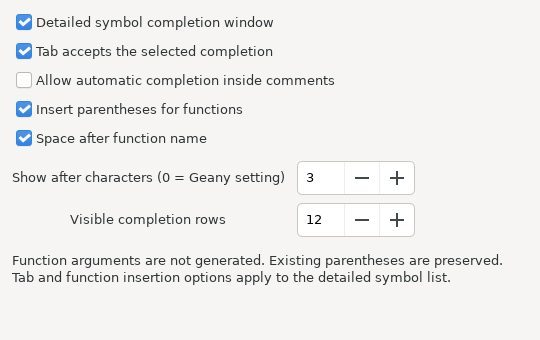
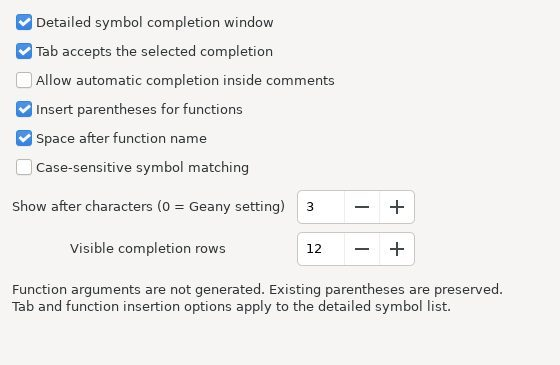
Add Source Insight style case-insensitive symbol completion

Changed region(s): [[0.0, 0.1176, 0.9185, 0.8529], [0.1185, 0.6176, 0.4148, 0.7059], [0.0296, 0.0294, 0.5037, 0.0882]]

diff --git a/insight/tests/completion_native_gui_test.c b/insight/tests/completion_native_gui_test.c
@@ -10,7 +10,7 @@
 #include <gdk/gdkkeysyms.h>
 #include <string.h>
 #define SEND(s,m,w,l) scintilla_send_message(s,m,w,l)
-static const gchar *content="int apricot_count;\ndouble apricot_ratio;\nint apricot_compute(int value) { return value; }\nvoid demo() {\n    \n}\n";
+static const gchar *content="int apricot_count;\ndouble apricot_ratio;\nint apricot_compute(int value) { return value; }\nint BerryCount;\nint berryCount;\nint BERRY_MODE;\nstruct Basket { int BerryField; int berryField; };\nBasket basket;\nvoid unrelated() { int berryHidden = 0; }\nvoid demo() {\n    \n}\n";
 static gchar *source,*profile,*original;static GeanyDocument *doc;static gint start;static guint phase;static gboolean restarted;
 static GtkWidget *named(GtkWidget *w,const gchar *name) { if(!g_strcmp0(gtk_widget_get_name(w),name)) return w;if(GTK_IS_MENU_ITEM(w)) { GtkWidget *menu=gtk_menu_item_get_submenu(GTK_MENU_ITEM(w));if(menu) { GtkWidget *v=named(menu,name);if(v) return v; } }if(GTK_IS_CONTAINER(w)) { GList *children=gtk_container_get_children(GTK_CONTAINER(w));GtkWidget *result=NULL;for(GList *p=children;p && !result;p=p->next) result=named(p->data,name);g_list_free(children);return result; }return NULL; }
 static GtkWidget *popup(void) { GList *windows=gtk_window_list_toplevels();GtkWidget *result=NULL;for(GList *p=windows;p;p=p->next) if(!g_strcmp0(gtk_widget_get_name(p->data),"insight-completion-popup") && gtk_widget_get_visible(p->data)) result=p->data;g_list_free(windows);return result; }
@@ -24,8 +24,8 @@ static GtkWidget *settings_dialog(void) { GList *windows=gtk_window_list_topleve
 static void setting_toggle(GtkWidget *d,const gchar *id,gboolean active) { gchar *name=g_strconcat("insight-completion-setting-",id,NULL);GtkWidget *w=named(d,name);g_assert_nonnull(w);gtk_toggle_button_set_active(GTK_TOGGLE_BUTTON(w),active);g_free(name); }
 static gboolean settings_action(gpointer data) {
  GtkWidget *d=settings_dialog();if(!d) return G_SOURCE_CONTINUE;guint mode=GPOINTER_TO_UINT(data);
- if(mode==3) { g_assert_cmpint(gtk_spin_button_get_value_as_int(GTK_SPIN_BUTTON(named(d,"insight-completion-setting-threshold"))),==,4);g_assert_cmpint(gtk_spin_button_get_value_as_int(GTK_SPIN_BUTTON(named(d,"insight-completion-setting-rows"))),==,5);g_assert_false(gtk_toggle_button_get_active(GTK_TOGGLE_BUTTON(named(d,"insight-completion-setting-accept-tab"))));g_assert_true(gtk_toggle_button_get_active(GTK_TOGGLE_BUTTON(named(d,"insight-completion-setting-parentheses"))));gtk_dialog_response(GTK_DIALOG(d),GTK_RESPONSE_CANCEL);return G_SOURCE_REMOVE; }
- setting_toggle(d,"accept-tab",FALSE);setting_toggle(d,"comments",mode!=2);setting_toggle(d,"parentheses",TRUE);setting_toggle(d,"space",TRUE);gtk_spin_button_set_value(GTK_SPIN_BUTTON(named(d,"insight-completion-setting-threshold")),mode==0 ? 12 : 4);gtk_spin_button_set_value(GTK_SPIN_BUTTON(named(d,"insight-completion-setting-rows")),5);gtk_dialog_response(GTK_DIALOG(d),mode==0 ? GTK_RESPONSE_CANCEL : GTK_RESPONSE_OK);return G_SOURCE_REMOVE;
+ if(mode==3) { g_assert_false(gtk_toggle_button_get_active(GTK_TOGGLE_BUTTON(named(d,"insight-completion-setting-case-sensitive"))));g_assert_cmpint(gtk_spin_button_get_value_as_int(GTK_SPIN_BUTTON(named(d,"insight-completion-setting-threshold"))),==,4);g_assert_cmpint(gtk_spin_button_get_value_as_int(GTK_SPIN_BUTTON(named(d,"insight-completion-setting-rows"))),==,5);g_assert_false(gtk_toggle_button_get_active(GTK_TOGGLE_BUTTON(named(d,"insight-completion-setting-accept-tab"))));g_assert_true(gtk_toggle_button_get_active(GTK_TOGGLE_BUTTON(named(d,"insight-completion-setting-parentheses"))));gtk_dialog_response(GTK_DIALOG(d),GTK_RESPONSE_CANCEL);return G_SOURCE_REMOVE; }
+ setting_toggle(d,"accept-tab",FALSE);setting_toggle(d,"comments",mode==0 || mode==1);setting_toggle(d,"case-sensitive",mode!=4);setting_toggle(d,"parentheses",TRUE);setting_toggle(d,"space",TRUE);gtk_spin_button_set_value(GTK_SPIN_BUTTON(named(d,"insight-completion-setting-threshold")),mode==0 ? 12 : 4);gtk_spin_button_set_value(GTK_SPIN_BUTTON(named(d,"insight-completion-setting-rows")),5);gtk_dialog_response(GTK_DIALOG(d),mode==0 ? GTK_RESPONSE_CANCEL : GTK_RESPONSE_OK);return G_SOURCE_REMOVE;
 }
 static void options(guint mode) { GtkWidget *window=gtk_widget_get_toplevel(GTK_WIDGET(doc->editor->sci)),*item=named(window,"insight-completion-options");g_assert_nonnull(item);g_timeout_add(30,settings_action,GUINT_TO_POINTER(mode));gtk_menu_item_activate(GTK_MENU_ITEM(item)); }
 static void reset_prefix(const gchar *text) { SEND(doc->editor->sci,SCI_SETTEXT,0,(sptr_t)content);sci_set_current_position(doc->editor->sci,start,FALSE);gtk_widget_grab_focus(GTK_WIDGET(doc->editor->sci));typed(text); }
@@ -54,7 +54,17 @@ static gboolean step(gpointer data) {
  if(phase==8) { g_assert_cmpuint(count(),==,1);key(GDK_KEY_Return);inserted_is("apricot_compute ()");g_assert_cmpint(sci_get_current_position(doc->editor->sci),==,start+(gint)strlen("apricot_compute ("));keybindings_send_command(GEANY_KEY_GROUP_EDITOR,GEANY_KEYS_EDITOR_UNDO);prefix_is("apricot_com");reset_prefix("");SEND(doc->editor->sci,SCI_REPLACESEL,0,(sptr_t)"apricot_com (17)");sci_set_current_position(doc->editor->sci,start+strlen("apricot_com"),FALSE);keybindings_send_command(GEANY_KEY_GROUP_EDITOR,GEANY_KEYS_EDITOR_AUTOCOMPLETE);phase++;return G_SOURCE_CONTINUE; }
  if(phase==9) { g_assert_cmpuint(count(),==,1);key(GDK_KEY_Return);inserted_is("apricot_compute (17)");reset_prefix("// apri");phase++;return G_SOURCE_CONTINUE; }
  if(phase==10) { g_assert_cmpuint(count(),==,3);key(GDK_KEY_Escape);options(2);reset_prefix("// apricot_c");phase++;return G_SOURCE_CONTINUE; }
- if(phase==11) { g_assert_null(popup());finish();return G_SOURCE_REMOVE;
+ if(phase==11) { g_assert_null(popup());options(4);reset_prefix("bErR");phase++;return G_SOURCE_CONTINUE;
+ }
+ if(phase==12) { GtkTreeModel *model=gtk_tree_view_get_model(GTK_TREE_VIEW(list()));GtkTreeIter iter;gboolean upper=FALSE,lower=FALSE,constant=FALSE;g_assert_true(gtk_tree_model_get_iter_first(model,&iter));do { gchar *name;gtk_tree_model_get(model,&iter,0,&name,-1);if(!strcmp(name,"BerryCount")) upper=TRUE;if(!strcmp(name,"berryCount")) lower=TRUE;if(!strcmp(name,"BERRY_MODE")) constant=TRUE;g_assert_cmpstr(name,!=,"berryHidden");g_free(name); }while(gtk_tree_model_iter_next(model,&iter));g_assert_true(upper);g_assert_true(lower);g_assert_true(constant);key(GDK_KEY_Escape);reset_prefix("berry");phase++;return G_SOURCE_CONTINUE;
+ }
+ if(phase==13) { gchar *name=selected();g_assert_true(g_str_has_prefix(name,"berry"));key(GDK_KEY_Return);prefix_is(name);g_free(name);keybindings_send_command(GEANY_KEY_GROUP_EDITOR,GEANY_KEYS_EDITOR_UNDO);prefix_is("berry");options(5);reset_prefix("bErR");phase++;return G_SOURCE_CONTINUE;
+ }
+ if(phase==14) { g_assert_null(popup());options(4);reset_prefix("basket.bEr");phase++;return G_SOURCE_CONTINUE;
+ }
+ if(phase==15) { g_assert_cmpuint(count(),==,2);gchar *name=selected(),*expected=g_strconcat("basket.",name,NULL);key(GDK_KEY_Return);prefix_is(expected);g_free(name);g_free(expected);keybindings_send_command(GEANY_KEY_GROUP_EDITOR,GEANY_KEYS_EDITOR_UNDO);prefix_is("basket.bEr");reset_prefix("bErR");phase++;return G_SOURCE_CONTINUE;
+ }
+ if(phase==16) { g_assert_nonnull(popup());GtkWidget *window=gtk_widget_get_toplevel(GTK_WIDGET(doc->editor->sci)),*option=named(window,"insight-detailed-completion-option");gtk_check_menu_item_set_active(GTK_CHECK_MENU_ITEM(option),FALSE);keybindings_send_command(GEANY_KEY_GROUP_EDITOR,GEANY_KEYS_EDITOR_AUTOCOMPLETE);g_assert_true(SEND(doc->editor->sci,SCI_AUTOCACTIVE,0,0));g_assert_true(SEND(doc->editor->sci,SCI_AUTOCGETIGNORECASE,0,0));SEND(doc->editor->sci,SCI_AUTOCCANCEL,0,0);gtk_check_menu_item_set_active(GTK_CHECK_MENU_ITEM(option),TRUE);finish();return G_SOURCE_REMOVE;
  }return G_SOURCE_CONTINUE;
 }
 static gboolean timeout(gpointer data) { (void)data;g_error("Completion GUI timeout phase %u",phase);return G_SOURCE_REMOVE; }

diff --git a/src/insight-completion.c b/src/insight-completion.c
@@ -15,13 +15,14 @@
 #define SEND(s,m,w,l) scintilla_send_message(s,m,w,l)
 #define KEY "insight-detailed-completion"
 enum { NAME,MARKUP,ICON,KIND,SCOPE,ORIGIN,IDENTITY,CALLABLE,COLUMNS };
-typedef struct { ScintillaObject *sci;GtkWidget *window,*view,*footer;GtkListStore *store;guint document,idle,focus_idle;gint start,end;gchar *prefix;gboolean active,accepting; } Completion;
+typedef struct { ScintillaObject *sci;GtkWidget *window,*view,*footer;GtkListStore *store;guint document,idle,focus_idle;gint start,end;gchar *prefix;gboolean active,accepting,limited; } Completion;
 static gboolean loaded;
 static InsightCompletionSettings settings;
 static GtkWidget *detail_item;
 static gboolean refresh(gpointer);
 static gchar *config_path(void) { return g_build_filename(app->configdir,"insight-completion.conf",NULL); }
 static void load(void) { if(loaded) return;loaded=TRUE;insight_completion_settings_default(&settings);GKeyFile *k=g_key_file_new();gchar *path=config_path();if(g_key_file_load_from_file(k,path,0,NULL)) { GError *error=NULL;if(!insight_completion_settings_read(&settings,k,&error)) g_warning("Invalid completion settings: %s",error->message);g_clear_error(&error); }g_key_file_unref(k);g_free(path); }
+gboolean insight_completion_case_sensitive(void) { load();return settings.case_sensitive; }
 gint insight_completion_min_chars(void) { load();return settings.min_chars ? settings.min_chars : editor_prefs.symbolcompletion_min_chars; }
 gboolean insight_completion_inside_comments(void) { load();return settings.inside_comments; }
 static Completion *state(GeanyEditor *editor) { return editor ? g_object_get_data(G_OBJECT(editor->sci),KEY) : NULL; }
@@ -42,7 +43,8 @@ static const gchar *kind(TMTagType type) {
  return "variable";
 }
 static gchar *selected(Completion *c,gint column) { GtkTreeIter iter;gchar *value=NULL;if(gtk_tree_selection_get_selected(gtk_tree_view_get_selection(GTK_TREE_VIEW(c->view)),NULL,&iter)) gtk_tree_model_get(GTK_TREE_MODEL(c->store),&iter,column,&value,-1);return value; }
-static void selection(GtkTreeSelection *unused,gpointer data) { (void)unused;Completion *c=data;gchar *origin=selected(c,ORIGIN);gtk_label_set_text(GTK_LABEL(c->footer),origin ? origin : "");g_free(origin); }
+static void selection(GtkTreeSelection *unused,gpointer data) { (void)unused;Completion *c=data;gchar *origin=selected(c,ORIGIN);gchar *text=g_strdup_printf("%s%s",origin ? origin : "",c->limited ? " · Case-insensitive search limit reached" : "");gtk_label_set_text(GTK_LABEL(c->footer),text);g_free(text);g_free(origin); }
+void insight_completion_search_limited(GeanyEditor *editor,gboolean limited) { Completion *c=state(editor);if(c) { c->limited=limited;selection(NULL,c); } }
 static void position(Completion *c) {
  gint x=SEND(c->sci,SCI_POINTXFROMPOSITION,0,c->end),y=SEND(c->sci,SCI_POINTYFROMPOSITION,0,c->end),height=SEND(c->sci,SCI_TEXTHEIGHT,SEND(c->sci,SCI_LINEFROMPOSITION,c->end,0),0),ox,oy;
  GdkWindow *window=gtk_widget_get_window(GTK_WIDGET(c->sci));if(!window) return;gdk_window_get_origin(window,&ox,&oy);
@@ -95,15 +97,15 @@ static Completion *create(GeanyEditor *editor) {
 gboolean insight_completion_show(GeanyEditor *editor,const GPtrArray *tags,gsize rootlen) {
  load();if(!settings.detailed) return FALSE;Completion *c=create(editor);gchar *previous=c->active ? selected(c,IDENTITY) : NULL;
  c->end=sci_get_current_position(c->sci);c->start=c->end-(gint)rootlen;g_free(c->prefix);c->prefix=sci_get_contents_range(c->sci,c->start,c->end);gtk_list_store_clear(c->store);
- GdkRGBA foreground;gtk_style_context_get_color(gtk_widget_get_style_context(c->view),GTK_STATE_FLAG_NORMAL,&foreground);gboolean dark=(foreground.red+foreground.green+foreground.blue)>1.8;const gchar *blue=dark ? "#93c5fd" : "#1d4ed8",*green=dark ? "#86efac" : "#166534",*muted=dark ? "#d1d5db" : "#475569";GtkTreePath *chosen=NULL;guint count=0;
+ GdkRGBA foreground;gtk_style_context_get_color(gtk_widget_get_style_context(c->view),GTK_STATE_FLAG_NORMAL,&foreground);gboolean dark=(foreground.red+foreground.green+foreground.blue)>1.8;const gchar *blue=dark ? "#93c5fd" : "#1d4ed8",*green=dark ? "#86efac" : "#166534",*muted=dark ? "#d1d5db" : "#475569";GtkTreePath *chosen=NULL,*exact=NULL;gboolean chosen_exact=FALSE;guint count=0;
  for(guint i=0;i<tags->len && count<editor_prefs.autocompletion_max_entries;i++) {
   TMTag *tag=g_ptr_array_index((GPtrArray *)tags,i);if(!tag->name || !g_utf8_validate(tag->name,-1,NULL) || strpbrk(tag->name,"\n\r\t")) continue;
   const gchar *args=tag->arglist ? tag->arglist : "",*scope=tag->scope ? tag->scope : "",*vartype=tag->var_type ? tag->var_type : "";gchar *identity=g_strdup_printf("%s|%s|%s|%s|%lu",tag->name,args,scope,tag->file ? tag->file->file_name : "",tag->line);
   gchar *markup=g_markup_printf_escaped("<span foreground='%s'>%s</span> <span foreground='%s'><b>%s</b></span><span foreground='%s'>%s</span> <span foreground='%s'>%s</span>",muted,vartype,blue,tag->name,green,args,muted,scope);
   gchar *description=g_strdup_printf("%s %s %s",vartype,args,scope),*origin=g_strdup_printf("%s · %s%s%s:%lu",kind(tag->type),*scope ? scope : "global",tag->file ? " · " : "",tag->file ? tag->file->file_name : "",tag->line);guint icon_id=0;gint group=tm_parser_get_sidebar_group(tag->lang,tag->type);const gchar *icon_name="text-x-generic";if(group>=0 && tm_parser_get_sidebar_info(tag->lang,group,&icon_id)) icon_name=symbols_get_icon_name(icon_id);
-  GtkTreeIter iter;gtk_list_store_append(c->store,&iter);gtk_list_store_set(c->store,&iter,NAME,tag->name,MARKUP,markup,ICON,icon_name,KIND,kind(tag->type),SCOPE,description,ORIGIN,origin,IDENTITY,identity,CALLABLE,(tag->type & (tm_tag_function_t|tm_tag_prototype_t|tm_tag_method_t))!=0,-1);if(previous && !strcmp(previous,identity)) chosen=gtk_tree_model_get_path(GTK_TREE_MODEL(c->store),&iter);count++;g_free(markup);g_free(description);g_free(origin);g_free(identity);
+  GtkTreeIter iter;gtk_list_store_append(c->store,&iter);gtk_list_store_set(c->store,&iter,NAME,tag->name,MARKUP,markup,ICON,icon_name,KIND,kind(tag->type),SCOPE,description,ORIGIN,origin,IDENTITY,identity,CALLABLE,(tag->type & (tm_tag_function_t|tm_tag_prototype_t|tm_tag_method_t))!=0,-1);if(!exact && g_str_has_prefix(tag->name,c->prefix)) exact=gtk_tree_model_get_path(GTK_TREE_MODEL(c->store),&iter);if(previous && !strcmp(previous,identity)) { chosen=gtk_tree_model_get_path(GTK_TREE_MODEL(c->store),&iter);chosen_exact=g_str_has_prefix(tag->name,c->prefix); }count++;g_free(markup);g_free(description);g_free(origin);g_free(identity);
  }
- g_free(previous);if(!count) { hide(c);return TRUE; }c->active=TRUE;if(!chosen) chosen=gtk_tree_path_new_first();gtk_tree_selection_select_path(gtk_tree_view_get_selection(GTK_TREE_VIEW(c->view)),chosen);gtk_tree_view_scroll_to_cell(GTK_TREE_VIEW(c->view),chosen,NULL,FALSE,0,0);gtk_tree_path_free(chosen);SEND(c->sci,SCI_AUTOCCANCEL,0,0);SEND(c->sci,SCI_CALLTIPCANCEL,0,0);
+ g_free(previous);if(!settings.case_sensitive && exact && !chosen_exact) { if(chosen) gtk_tree_path_free(chosen);chosen=gtk_tree_path_copy(exact); }if(exact) gtk_tree_path_free(exact);c->limited=FALSE;if(!count) { hide(c);return TRUE; }c->active=TRUE;if(!chosen) chosen=gtk_tree_path_new_first();gtk_tree_selection_select_path(gtk_tree_view_get_selection(GTK_TREE_VIEW(c->view)),chosen);gtk_tree_view_scroll_to_cell(GTK_TREE_VIEW(c->view),chosen,NULL,FALSE,0,0);gtk_tree_path_free(chosen);SEND(c->sci,SCI_AUTOCCANCEL,0,0);SEND(c->sci,SCI_CALLTIPCANCEL,0,0);
  gtk_widget_set_size_request(c->view,620,MIN(count,(guint)settings.max_rows)*26);gtk_widget_show_all(c->window);position(c);return TRUE;
 }
 gboolean insight_completion_key(GeanyEditor *editor,GdkEventKey *event) {

diff --git a/insight/desktop/completion_preferences.c b/insight/desktop/completion_preferences.c
@@ -1,15 +1,15 @@
 /* SPDX-License-Identifier: GPL-2.0-or-later */
 #include "completion_preferences.h"
-typedef struct { GtkWidget *flags[5],*threshold,*rows; } Page;
+typedef struct { GtkWidget *flags[6],*threshold,*rows; } Page;
 GtkWidget *insight_completion_preferences_new(const InsightCompletionSettings *settings) {
  Page *p=g_new0(Page,1);GtkWidget *box=gtk_box_new(GTK_ORIENTATION_VERTICAL,8);gtk_container_set_border_width(GTK_CONTAINER(box),12);
- const gchar *labels[]={"Detailed symbol completion window","Tab accepts the selected completion","Allow automatic completion inside comments","Insert parentheses for functions","Space after function name"},*ids[]={"detailed","accept-tab","comments","parentheses","space"};gboolean values[]={settings->detailed,settings->accept_tab,settings->inside_comments,settings->insert_parentheses,settings->space_after_name};
- for(guint n=0;n<5;n++) { p->flags[n]=gtk_check_button_new_with_label(labels[n]);gchar *name=g_strconcat("insight-completion-setting-",ids[n],NULL);gtk_widget_set_name(p->flags[n],name);g_free(name);gtk_toggle_button_set_active(GTK_TOGGLE_BUTTON(p->flags[n]),values[n]);gtk_box_pack_start(GTK_BOX(box),p->flags[n],FALSE,FALSE,0); }
+ const gchar *labels[]={"Detailed symbol completion window","Tab accepts the selected completion","Allow automatic completion inside comments","Insert parentheses for functions","Space after function name","Case-sensitive symbol matching"},*ids[]={"detailed","accept-tab","comments","parentheses","space","case-sensitive"};gboolean values[]={settings->detailed,settings->accept_tab,settings->inside_comments,settings->insert_parentheses,settings->space_after_name,settings->case_sensitive};
+ for(guint n=0;n<6;n++) { p->flags[n]=gtk_check_button_new_with_label(labels[n]);gchar *name=g_strconcat("insight-completion-setting-",ids[n],NULL);gtk_widget_set_name(p->flags[n],name);g_free(name);gtk_toggle_button_set_active(GTK_TOGGLE_BUTTON(p->flags[n]),values[n]);gtk_box_pack_start(GTK_BOX(box),p->flags[n],FALSE,FALSE,0); }
  GtkWidget *grid=gtk_grid_new();gtk_grid_set_row_spacing(GTK_GRID(grid),8);gtk_grid_set_column_spacing(GTK_GRID(grid),12);p->threshold=gtk_spin_button_new_with_range(0,12,1);p->rows=gtk_spin_button_new_with_range(3,20,1);gtk_widget_set_name(p->threshold,"insight-completion-setting-threshold");gtk_widget_set_name(p->rows,"insight-completion-setting-rows");gtk_spin_button_set_value(GTK_SPIN_BUTTON(p->threshold),settings->min_chars);gtk_spin_button_set_value(GTK_SPIN_BUTTON(p->rows),settings->max_rows);gtk_grid_attach(GTK_GRID(grid),gtk_label_new("Show after characters (0 = Geany setting)"),0,0,1,1);gtk_grid_attach(GTK_GRID(grid),p->threshold,1,0,1,1);gtk_grid_attach(GTK_GRID(grid),gtk_label_new("Visible completion rows"),0,1,1,1);gtk_grid_attach(GTK_GRID(grid),p->rows,1,1,1,1);gtk_box_pack_start(GTK_BOX(box),grid,FALSE,FALSE,4);
  GtkWidget *note=gtk_label_new("Function arguments are not generated. Existing parentheses are preserved.\nTab and function insertion options apply to the detailed symbol list.");gtk_label_set_line_wrap(GTK_LABEL(note),TRUE);gtk_label_set_xalign(GTK_LABEL(note),0);gtk_box_pack_start(GTK_BOX(box),note,FALSE,FALSE,3);g_object_set_data_full(G_OBJECT(box),"insight-completion-preferences",p,g_free);return box;
 }
 void insight_completion_preferences_get(GtkWidget *box,InsightCompletionSettings *settings) {
- Page *p=g_object_get_data(G_OBJECT(box),"insight-completion-preferences");gboolean *values[]={&settings->detailed,&settings->accept_tab,&settings->inside_comments,&settings->insert_parentheses,&settings->space_after_name};
- for(guint n=0;n<5;n++) *values[n]=gtk_toggle_button_get_active(GTK_TOGGLE_BUTTON(p->flags[n]));
+ Page *p=g_object_get_data(G_OBJECT(box),"insight-completion-preferences");gboolean *values[]={&settings->detailed,&settings->accept_tab,&settings->inside_comments,&settings->insert_parentheses,&settings->space_after_name,&settings->case_sensitive};
+ for(guint n=0;n<6;n++) *values[n]=gtk_toggle_button_get_active(GTK_TOGGLE_BUTTON(p->flags[n]));
  settings->min_chars=gtk_spin_button_get_value_as_int(GTK_SPIN_BUTTON(p->threshold));settings->max_rows=gtk_spin_button_get_value_as_int(GTK_SPIN_BUTTON(p->rows));
 }

diff --git a/src/tagmanager/tm_workspace.c b/src/tagmanager/tm_workspace.c
@@ -1,3 +1,4 @@
+#include "tm_completion.h"
 /*
 *
 *   Copyright (c) 2001-2002, Biswapesh Chattopadhyay
@@ -973,6 +974,31 @@ GPtrArray *tm_workspace_find_prefix(const char *prefix,
 }
 
 
+/* Existing exact-case results are retained before bounded casefold expansion. */
+typedef struct { SortInfo sort;const gchar *prefix; } CompletionSort;
+static gint sort_completion_case(gconstpointer a,gconstpointer b,gpointer data) {
+ CompletionSort *s=data;const TMTag *left=*(TMTag *const *)a,*right=*(TMTag *const *)b;gboolean l=g_str_has_prefix(left->name,s->prefix),r=g_str_has_prefix(right->name,s->prefix);if(l!=r) return l ? -1 : 1;return sort_found_tags(a,b,&s->sort);
+}
+static void copy_casefold(GPtrArray *dst,const GPtrArray *source,CopyInfo *info,TMCompletionPrefix *prefix,GHashTable *seen,guint max_num,guint *visited,gboolean (*predicate)(TMTag *,CopyInfo *)) {
+ for(guint i=0;source && i<source->len && dst->len<max_num && *visited<100000;i++) {
+  (*visited)++;TMTag *tag=g_ptr_array_index((GPtrArray *)source,i);if(!predicate(tag,info) || !tm_workspace_is_autocomplete_tag(tag,info->file,info->line,info->scope) || !tm_completion_prefix_matches(prefix,tag->name) || g_hash_table_contains(seen,tag->name)) continue;
+  g_ptr_array_add(dst,tag);g_hash_table_add(seen,tag->name);
+ }
+}
+GPtrArray *tm_workspace_find_prefix_mode(const gchar *prefix,TMSourceFile *file,guint line,const gchar *scope,guint max_num,gboolean sensitive,gboolean *limited) {
+ if(limited) *limited=FALSE;
+ GPtrArray *tags=tm_workspace_find_prefix(prefix,file,line,scope,max_num);if(sensitive || !prefix || !*prefix || tags->len>=max_num) return tags;
+ TMCompletionPrefix *matcher=tm_completion_prefix_new(prefix,FALSE);if(!matcher) return tags;
+ GPtrArray *headers=NULL;GHashTable *includes=get_includes(file,&headers),*seen=g_hash_table_new(g_str_hash,g_str_equal);CopyInfo info={file,headers,includes,line,scope};guint visited=0;
+ for(guint i=0;i<tags->len;i++) { TMTag *tag=g_ptr_array_index(tags,i);g_hash_table_add(seen,tag->name); }
+ if(file) { copy_casefold(tags,file->tags_array,&info,matcher,seen,max_num,&visited,is_local_tag);copy_casefold(tags,file->tags_array,&info,matcher,seen,max_num,&visited,is_non_local_tag); }
+ for(guint i=0;headers && i<headers->len && tags->len<max_num && visited<100000;i++) { TMSourceFile *header=g_ptr_array_index(headers,i);copy_casefold(tags,header->tags_array,&info,matcher,seen,max_num,&visited,is_non_local_tag); }
+ GHashTableIter iter;gpointer key;g_hash_table_iter_init(&iter,includes);while(tags->len<max_num && visited<100000 && g_hash_table_iter_next(&iter,&key,NULL)) { TMSourceFile *included=key;copy_casefold(tags,included->tags_array,&info,matcher,seen,max_num,&visited,is_non_local_tag); }
+ copy_casefold(tags,theWorkspace->tags_array,&info,matcher,seen,max_num,&visited,is_workspace_tag);copy_casefold(tags,theWorkspace->global_tags,&info,matcher,seen,max_num,&visited,is_any_tag);
+ CompletionSort sort={{file,headers,includes,TRUE},prefix};g_ptr_array_sort_with_data(tags,sort_completion_case,&sort);if(limited) *limited=visited>=100000 && tags->len<max_num;
+ g_hash_table_unref(seen);g_hash_table_unref(includes);tm_completion_prefix_free(matcher);return tags;
+}
+
 static gboolean replace_with_char(gchar *haystack, const gchar *needle, char replacement)
 {
 	gchar *pos = strstr(haystack, needle);
@@ -1433,3 +1459,4 @@ void tm_workspace_dump(void)
 	}
 }
 #endif /* TM_DEBUG */
+

diff --git a/insight/tests/completion_settings_test.c b/insight/tests/completion_settings_test.c
@@ -2,8 +2,8 @@
 #include "../desktop/completion_settings.h"
 static void suffix(InsightCompletionSettings *p,gboolean callable,const gchar *right,const gchar *expected) { gchar *text=insight_completion_settings_suffix(p,callable,right);g_assert_cmpstr(text,==,expected);g_free(text); }
 int main(void) {
- InsightCompletionSettings p,q;GError *error=NULL;GKeyFile *key=g_key_file_new();g_key_file_set_boolean(key,"completion","detailed",FALSE);g_assert_true(insight_completion_settings_read(&p,key,&error));g_assert_false(p.detailed);g_assert_true(p.accept_tab);g_assert_cmpint(p.min_chars,==,0);g_assert_cmpint(p.max_rows,==,9);
- p.min_chars=4;p.max_rows=20;p.accept_tab=FALSE;p.inside_comments=TRUE;p.insert_parentheses=TRUE;p.space_after_name=TRUE;g_key_file_set_string(key,"custom","keep","yes");g_assert_true(insight_completion_settings_write(&p,key,&error));g_assert_true(insight_completion_settings_read(&q,key,&error));g_assert_no_error(error);g_assert_cmpint(q.min_chars,==,4);g_assert_cmpint(q.max_rows,==,20);g_assert_false(q.accept_tab);g_assert_true(q.inside_comments);g_assert_true(q.insert_parentheses);g_assert_true(q.space_after_name);
+ InsightCompletionSettings p,q;GError *error=NULL;GKeyFile *key=g_key_file_new();g_key_file_set_boolean(key,"completion","detailed",FALSE);g_assert_true(insight_completion_settings_read(&p,key,&error));g_assert_false(p.detailed);g_assert_true(p.case_sensitive);g_assert_true(p.accept_tab);g_assert_cmpint(p.min_chars,==,0);g_assert_cmpint(p.max_rows,==,9);
+ p.case_sensitive=FALSE;p.min_chars=4;p.max_rows=20;p.accept_tab=FALSE;p.inside_comments=TRUE;p.insert_parentheses=TRUE;p.space_after_name=TRUE;g_key_file_set_string(key,"custom","keep","yes");g_assert_true(insight_completion_settings_write(&p,key,&error));g_assert_true(insight_completion_settings_read(&q,key,&error));g_assert_no_error(error);g_assert_cmpint(q.min_chars,==,4);g_assert_false(q.case_sensitive);g_assert_cmpint(q.max_rows,==,20);g_assert_false(q.accept_tab);g_assert_true(q.inside_comments);g_assert_true(q.insert_parentheses);g_assert_true(q.space_after_name);
  gchar *before=g_key_file_to_data(key,NULL,NULL);p.max_rows=2;g_assert_false(insight_completion_settings_write(&p,key,&error));g_clear_error(&error);gchar *after=g_key_file_to_data(key,NULL,NULL);g_assert_cmpstr(before,==,after);g_free(before);g_free(after);
  g_key_file_set_integer(key,"completion","min-chars",13);g_assert_false(insight_completion_settings_read(&q,key,&error));g_clear_error(&error);g_assert_cmpint(q.min_chars,==,0);g_assert_true(q.detailed);g_key_file_set_integer(key,"completion","min-chars",0);g_key_file_set_string(key,"completion","accept-tab","invalid");g_assert_false(insight_completion_settings_read(&q,key,&error));g_clear_error(&error);g_assert_true(q.accept_tab);
  insight_completion_settings_default(&p);suffix(&p,TRUE,";","");p.insert_parentheses=TRUE;suffix(&p,TRUE,";","()");suffix(&p,FALSE,";","");suffix(&p,TRUE," \t(existing)","");p.space_after_name=TRUE;suffix(&p,TRUE,";"," ()");suffix(&p,TRUE,"\nnext()"," ()");suffix(&p,TRUE,NULL," ()");g_key_file_unref(key);g_print("Completion settings: legacy defaults, bounds, invalid values, nonmutating rejection and parentheses guards passed\n");return 0;

diff --git a/insight/desktop/completion_settings.c b/insight/desktop/completion_settings.c
@@ -1,11 +1,11 @@
 /* SPDX-License-Identifier: GPL-2.0-or-later */
 #include "completion_settings.h"
 #define GROUP "completion"
-void insight_completion_settings_default(InsightCompletionSettings *p) { *p=(InsightCompletionSettings){TRUE,TRUE,FALSE,FALSE,FALSE,0,9}; }
+void insight_completion_settings_default(InsightCompletionSettings *p) { *p=(InsightCompletionSettings){TRUE,TRUE,TRUE,FALSE,FALSE,FALSE,0,9}; }
 gboolean insight_completion_settings_valid(const InsightCompletionSettings *p,GError **error) { if(p->min_chars<0 || p->min_chars>12 || p->max_rows<3 || p->max_rows>20) { g_set_error_literal(error,G_KEY_FILE_ERROR,G_KEY_FILE_ERROR_INVALID_VALUE,"Completion threshold must be 0–12 and visible rows 3–20");return FALSE; }return TRUE; }
 gboolean insight_completion_settings_read(InsightCompletionSettings *p,GKeyFile *key,GError **error) {
  InsightCompletionSettings next;insight_completion_settings_default(&next);insight_completion_settings_default(p);GError *failure=NULL;
- const gchar *keys[]={"detailed","accept-tab","inside-comments","insert-parentheses","space-after-name"};gboolean *values[]={&next.detailed,&next.accept_tab,&next.inside_comments,&next.insert_parentheses,&next.space_after_name};
+ const gchar *keys[]={"case-sensitive","detailed","accept-tab","inside-comments","insert-parentheses","space-after-name"};gboolean *values[]={&next.case_sensitive,&next.detailed,&next.accept_tab,&next.inside_comments,&next.insert_parentheses,&next.space_after_name};
  for(guint n=0;n<G_N_ELEMENTS(keys) && !failure;n++) if(g_key_file_has_key(key,GROUP,keys[n],NULL)) *values[n]=g_key_file_get_boolean(key,GROUP,keys[n],&failure);
  if(!failure && g_key_file_has_key(key,GROUP,"min-chars",NULL)) next.min_chars=g_key_file_get_integer(key,GROUP,"min-chars",&failure);
  if(!failure && g_key_file_has_key(key,GROUP,"max-rows",NULL)) next.max_rows=g_key_file_get_integer(key,GROUP,"max-rows",&failure);
@@ -14,7 +14,7 @@ gboolean insight_completion_settings_read(InsightCompletionSettings *p,GKeyFile 
 }
 gboolean insight_completion_settings_write(const InsightCompletionSettings *p,GKeyFile *key,GError **error) {
  if(!insight_completion_settings_valid(p,error)) return FALSE;
- const gchar *keys[]={"detailed","accept-tab","inside-comments","insert-parentheses","space-after-name"};gboolean values[]={p->detailed,p->accept_tab,p->inside_comments,p->insert_parentheses,p->space_after_name};
+ const gchar *keys[]={"case-sensitive","detailed","accept-tab","inside-comments","insert-parentheses","space-after-name"};gboolean values[]={p->case_sensitive,p->detailed,p->accept_tab,p->inside_comments,p->insert_parentheses,p->space_after_name};
  for(guint n=0;n<G_N_ELEMENTS(keys);n++) g_key_file_set_boolean(key,GROUP,keys[n],values[n]);
  g_key_file_set_integer(key,GROUP,"min-chars",p->min_chars);g_key_file_set_integer(key,GROUP,"max-rows",p->max_rows);return TRUE;
 }

diff --git a/insight/tests/completion_preferences_gui_test.c b/insight/tests/completion_preferences_gui_test.c
@@ -2,7 +2,7 @@
 #include "../desktop/completion_preferences.h"
 int main(int argc,char **argv) {
  if(!g_getenv("GEANY_RUN_GUI_TESTS") || !gtk_init_check(&argc,&argv)) return 77;
- InsightCompletionSettings p,q;insight_completion_settings_default(&p);p.min_chars=3;p.max_rows=12;p.insert_parentheses=TRUE;p.space_after_name=TRUE;GtkWidget *window=gtk_window_new(GTK_WINDOW_TOPLEVEL),*page=insight_completion_preferences_new(&p);gtk_window_set_default_size(GTK_WINDOW(window),540,340);gtk_container_add(GTK_CONTAINER(window),page);gtk_widget_show_all(window);insight_completion_preferences_get(page,&q);g_assert_cmpint(q.min_chars,==,3);g_assert_cmpint(q.max_rows,==,12);g_assert_true(q.accept_tab);g_assert_true(q.insert_parentheses);g_assert_true(q.space_after_name);g_assert_false(q.inside_comments);
+ InsightCompletionSettings p,q;insight_completion_settings_default(&p);p.case_sensitive=FALSE;p.min_chars=3;p.max_rows=12;p.insert_parentheses=TRUE;p.space_after_name=TRUE;GtkWidget *window=gtk_window_new(GTK_WINDOW_TOPLEVEL),*page=insight_completion_preferences_new(&p);gtk_window_set_default_size(GTK_WINDOW(window),560,365);gtk_container_add(GTK_CONTAINER(window),page);gtk_widget_show_all(window);insight_completion_preferences_get(page,&q);g_assert_cmpint(q.min_chars,==,3);g_assert_false(q.case_sensitive);g_assert_cmpint(q.max_rows,==,12);g_assert_true(q.accept_tab);g_assert_true(q.insert_parentheses);g_assert_true(q.space_after_name);g_assert_false(q.inside_comments);
  const gchar *shot=g_getenv("GEANY_GUI_SCREENSHOT");if(shot) { gint64 end=g_get_monotonic_time()+200000;while(g_get_monotonic_time()<end) { while(g_main_context_iteration(NULL,FALSE));g_usleep(1000); }GdkWindow *native=gtk_widget_get_window(window);GdkPixbuf *image=gdk_pixbuf_get_from_window(native,0,0,gdk_window_get_width(native),gdk_window_get_height(native));g_assert_nonnull(image);g_assert_true(gdk_pixbuf_save(image,shot,"jpeg",NULL,"quality","82",NULL));g_object_unref(image); }
  gtk_widget_destroy(window);g_print("Production completion preferences page roundtrip passed\n");return 0;
 }

diff --git a/src/editor.c b/src/editor.c
@@ -66,6 +66,7 @@
 #include "utils.h"
 
 #include "SciLexer.h"
+#include "tagmanager/tm_completion.h"
 
 #include <ctype.h>
 #include <string.h>
@@ -650,7 +651,9 @@ static void show_autocomplete(GeanyEditor *editor, gsize rootlen, GString *words
 	}
 	/* store whether a calltip is showing, so we can reshow it after autocompletion */
 	calltip.set = (gboolean) SSM(sci, SCI_CALLTIPACTIVE, 0, 0);
-	SSM(sci, SCI_AUTOCSETORDER, SC_ORDER_CUSTOM, 0);
+	SSM(sci, SCI_AUTOCSETIGNORECASE, !insight_completion_case_sensitive(), 0);
+ SSM(sci, SCI_AUTOCSETCASEINSENSITIVEBEHAVIOUR, SC_CASEINSENSITIVEBEHAVIOUR_RESPECTCASE, 0);
+ SSM(sci, SCI_AUTOCSETORDER, SC_ORDER_CUSTOM, 0);
 	SSM(sci, SCI_AUTOCSHOW, rootlen, (sptr_t) words->str);
 }
 
@@ -823,12 +826,14 @@ static gboolean autocomplete_scope(GeanyEditor *editor, const gchar *root, gsize
 		TMTag *tag;
 		guint i;
 
+		TMCompletionPrefix *matcher=tm_completion_prefix_new(root,insight_completion_case_sensitive());
 		foreach_ptr_array(tag, i, tags)
 		{
-			if (g_str_has_prefix(tag->name, root))
+			if (tm_completion_prefix_matches(matcher,tag->name))
 				g_ptr_array_add(filtered, tag);
 		}
 
+		tm_completion_prefix_free(matcher);
 		if (filtered->len > 0)
 		{
 			show_tags_list(editor, filtered, rootlen);
@@ -2160,11 +2165,13 @@ autocomplete_tags(GeanyEditor *editor, GeanyFiletype *ft, const gchar *root, gsi
 	symbols_get_current_function(doc, &current_scope);
 	current_line = sci_get_current_line(editor->sci) + 1;
 
-	tags = tm_workspace_find_prefix(root, doc->tm_file, current_line, current_scope,
-		editor_prefs.autocompletion_max_entries);
+	gboolean limited=FALSE;
+ tags = tm_workspace_find_prefix_mode(root, doc->tm_file, current_line, current_scope,
+		editor_prefs.autocompletion_max_entries,insight_completion_case_sensitive(),&limited);
 	found = tags->len > 0;
 	if (found)
 		show_tags_list(editor, tags, rootlen);
+ insight_completion_search_limited(editor,limited);
 	g_ptr_array_free(tags, TRUE);
 
 	return found;

diff --git a/insight/tests/completion_match_test.c b/insight/tests/completion_match_test.c
@@ -1,0 +1,9 @@
+/* SPDX-License-Identifier: GPL-2.0-or-later */
+#include "../../src/tagmanager/tm_completion.h"
+static void match(const gchar *prefix,const gchar *name,gboolean sensitive,gboolean expected) { TMCompletionPrefix *p=tm_completion_prefix_new(prefix,sensitive);g_assert_nonnull(p);g_assert_cmpint(tm_completion_prefix_matches(p,name),==,expected);tm_completion_prefix_free(p); }
+int main(void) {
+ match("ber","BerryCount",TRUE,FALSE);match("ber","berryCount",TRUE,TRUE);match("bEr","BerryCount",FALSE,TRUE);match("BERRY","berryCount",FALSE,TRUE);match("berryCountLong","berryCount",FALSE,FALSE);match("berry","other_berry",FALSE,FALSE);match("","Berry",FALSE,TRUE);
+ match("ПРИ","привет",FALSE,TRUE);match("при","Привет",TRUE,FALSE);match("STRASS","Straße",FALSE,TRUE);match("σ","Σigma",FALSE,TRUE);match("k","Kelvin",FALSE,TRUE);match("e\314\201","éclair",FALSE,FALSE);
+ g_assert_null(tm_completion_prefix_new(NULL,FALSE));g_assert_null(tm_completion_prefix_new("\377",FALSE));g_assert_null(tm_completion_prefix_new("a\nb",FALSE));gchar *long_prefix=g_strnfill(513,'a');g_assert_null(tm_completion_prefix_new(long_prefix,FALSE));long_prefix[512]=0;TMCompletionPrefix *p=tm_completion_prefix_new(long_prefix,FALSE);g_assert_nonnull(p);g_assert_false(tm_completion_prefix_matches(p,NULL));g_assert_false(tm_completion_prefix_matches(p,"\377"));tm_completion_prefix_free(p);g_free(long_prefix);
+ gchar *name=g_strnfill(4097,'a');p=tm_completion_prefix_new("a",FALSE);g_assert_false(tm_completion_prefix_matches(p,name));name[4096]=0;g_assert_true(tm_completion_prefix_matches(p,name));tm_completion_prefix_free(p);g_free(name);g_print("Completion matching: exact case, ASCII/Unicode casefold, expansion, prefix-only, malformed UTF-8 and byte bounds passed\n");return 0;
+}

diff --git a/src/tagmanager/tm_completion.c b/src/tagmanager/tm_completion.c
@@ -1,0 +1,13 @@
+/* SPDX-License-Identifier: GPL-2.0-or-later */
+#include "tm_completion.h"
+#include <string.h>
+struct TMCompletionPrefix { gchar *text,*folded;gboolean sensitive,ascii;gsize length; };
+static gboolean valid(const gchar *text,gsize limit) { if(!text) return FALSE;gsize n=0;while(n<=limit && text[n]) n++;return n<=limit && !strpbrk(text,"\n\r\t") && g_utf8_validate(text,n,NULL); }
+TMCompletionPrefix *tm_completion_prefix_new(const gchar *text,gboolean sensitive) { if(!valid(text,512)) return NULL;TMCompletionPrefix *p=g_new0(TMCompletionPrefix,1);p->text=g_strdup(text);p->sensitive=sensitive;p->ascii=g_str_is_ascii(text);p->length=strlen(text);if(!sensitive) p->folded=g_utf8_casefold(text,-1);return p; }
+gboolean tm_completion_prefix_matches(const TMCompletionPrefix *p,const gchar *name) {
+ if(!p || !valid(name,4096)) return FALSE;
+ if(p->sensitive) return g_str_has_prefix(name,p->text);
+ if(p->ascii && g_str_is_ascii(name)) return !g_ascii_strncasecmp(name,p->text,p->length);
+ gchar *folded=g_utf8_casefold(name,-1);gboolean result=g_str_has_prefix(folded,p->folded);g_free(folded);return result;
+}
+void tm_completion_prefix_free(TMCompletionPrefix *p) { if(p) { g_free(p->text);g_free(p->folded);g_free(p); } }

diff --git a/insight/desktop/completion_settings.h b/insight/desktop/completion_settings.h
@@ -2,7 +2,7 @@
 #ifndef INSIGHT_COMPLETION_SETTINGS_H
 #define INSIGHT_COMPLETION_SETTINGS_H
 #include <glib.h>
-typedef struct { gboolean detailed,accept_tab,inside_comments,insert_parentheses,space_after_name;gint min_chars,max_rows; } InsightCompletionSettings;
+typedef struct { gboolean case_sensitive,detailed,accept_tab,inside_comments,insert_parentheses,space_after_name;gint min_chars,max_rows; } InsightCompletionSettings;
 void insight_completion_settings_default(InsightCompletionSettings *);
 gboolean insight_completion_settings_valid(const InsightCompletionSettings *,GError **);
 gboolean insight_completion_settings_read(InsightCompletionSettings *,GKeyFile *,GError **);

diff --git a/src/tagmanager/tm_workspace.h b/src/tagmanager/tm_workspace.h
@@ -61,6 +61,8 @@ GPtrArray *tm_workspace_find_prefix(const char *prefix,
 	TMSourceFile *current_file, guint current_line, const gchar *current_scope,
 	guint max_num);
 
+GPtrArray *tm_workspace_find_prefix_mode(const gchar *,TMSourceFile *,guint,const gchar *,guint,gboolean,gboolean *);
+
 GPtrArray *tm_workspace_find_scope_members (TMSourceFile *source_file, const char *name,
 	gboolean function, gboolean member, const gchar *current_scope, guint current_line, gboolean search_namespace);
 
@@ -89,3 +91,4 @@ void tm_workspace_dump(void);
 G_END_DECLS
 
 #endif /* TM_WORKSPACE_H */
+
